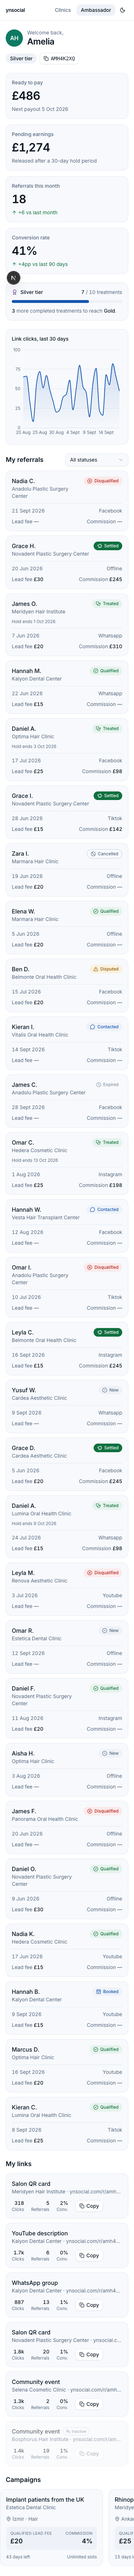
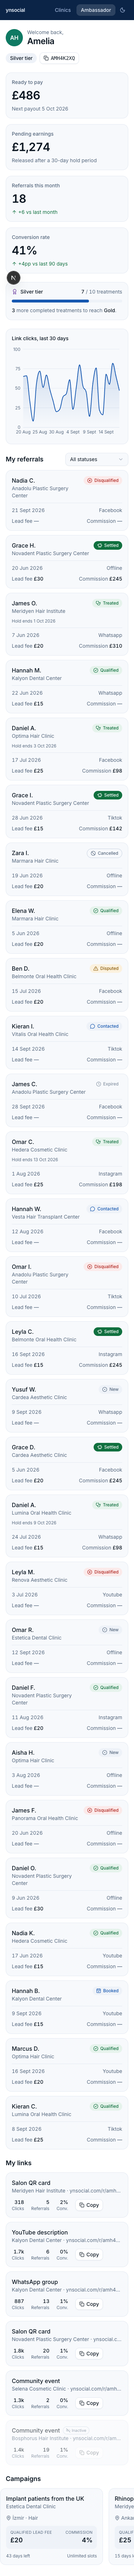
Give the nav bar and clinics hero real color presence
The all-white chrome (nav, hero band) read as empty on its own, separately
from card content. Instead of adding more accent colors (the tempting
reference was a listings site with three bright button colors in its
nav), the nav bar becomes a solid single-hue navy fill with light text,
and the /clinics hero gets a soft one-color gradient wash. Same blue
family, same one scarce accent — just presented with more confidence.

diff --git a/src/app/globals.css b/src/app/globals.css
@@ -36,6 +36,12 @@
   --accent: #6e3fa3;
   --accent-bg: #f1eaf9;
 
+  /* --- Nav bar (deep navy, single-hue "color presence" instead of white) --- */
+  --nav-bg: #0b2447;
+  --nav-text: #eaf1fb;
+  --nav-text-muted: #9fb4d9;
+  --nav-active-bg: rgba(255, 255, 255, 0.14);
+
   /* --- Radius --- */
   --radius-sm: 6px;
   --radius-md: 10px;
@@ -75,6 +81,13 @@
   --danger-bg: rgba(248, 113, 113, 0.12);
   --accent: #b79ae0;
   --accent-bg: rgba(183, 154, 224, 0.14);
+
+  /* Lighter than the page background so the bar still reads as a distinct
+     colored surface, not just "more dark". */
+  --nav-bg: #16345c;
+  --nav-text: #eaf1fb;
+  --nav-text-muted: #9fb4d9;
+  --nav-active-bg: rgba(255, 255, 255, 0.12);
 }
 
 @theme inline {
@@ -104,6 +117,11 @@
      or every dropdown/menu hover would turn violet. */
   --color-brand: var(--accent);
   --color-brand-bg: var(--accent-bg);
+
+  --color-nav-bg: var(--nav-bg);
+  --color-nav-text: var(--nav-text);
+  --color-nav-text-muted: var(--nav-text-muted);
+  --color-nav-active: var(--nav-active-bg);
 
   /* shadcn/ui semantic aliases, mapped onto our own tokens so primitives
      inherit the system instead of shipping their own default palette. */
@@ -178,6 +196,13 @@
     border-radius: var(--radius-sm);
   }
 
+  /* The nav bar is a dark navy fill in both themes — the default blue ring
+     would nearly disappear against it, so its focusable children get a
+     light ring instead. Higher specificity than the rule above. */
+  .nav-focusable:focus-visible {
+    outline-color: var(--nav-text);
+  }
+
   /* Tabular numerals wherever money or counts render. */
   .tabular {
     font-variant-numeric: tabular-nums;
@@ -200,6 +225,18 @@
   /* Content container width — docs/02-TASARIM-YONU.md specifies 1280–1440px. */
   .page-container {
     max-width: 1440px;
+  }
+
+  /* Clinics hero band — a soft single-hue wash, not a second accent color,
+     so the marketing page reads as more than a plain white page without
+     breaking the "one vivid element on screen" rule. */
+  .hero-panel {
+    background-image: linear-gradient(
+      160deg,
+      color-mix(in oklch, var(--primary) 12%, var(--surface)) 0%,
+      var(--surface) 55%,
+      var(--surface) 100%
+    );
   }
 
   /* Subtle deterministic texture for identity swatches — replaces a

diff --git a/src/app/clinics/page.tsx b/src/app/clinics/page.tsx
@@ -18,21 +18,27 @@ export default async function ClinicsPage() {
   const clinics = await getClinics()
 
   return (
-    <main className="mx-auto flex w-full page-container flex-col gap-8 px-4 py-8 sm:px-5 lg:px-8">
-      <div className="max-w-2xl space-y-2">
-        <h1 className="font-serif text-4xl font-medium tracking-tight text-text sm:text-5xl">
-          Find a verified clinic in Turkey
-        </h1>
-        <p className="text-lg text-text-muted">
-          Every clinic on ynsocial is either document-verified or visited
-          on-site. Filter by city, treatment and language to compare options
-          before you talk to anyone.
-        </p>
+    <main className="flex w-full flex-col">
+      <div className="hero-panel border-b border-border">
+        <div className="mx-auto flex w-full page-container flex-col gap-6 px-4 py-10 sm:px-5 lg:px-8">
+          <div className="max-w-2xl space-y-2">
+            <h1 className="font-serif text-4xl font-medium tracking-tight text-text sm:text-5xl">
+              Find a verified clinic in Turkey
+            </h1>
+            <p className="text-lg text-text-muted">
+              Every clinic on ynsocial is either document-verified or visited
+              on-site. Filter by city, treatment and language to compare
+              options before you talk to anyone.
+            </p>
+          </div>
+
+          <TrustStats clinics={clinics} />
+        </div>
       </div>
 
-      <TrustStats clinics={clinics} />
-
-      <ClinicsExplorer allClinics={clinics} />
+      <div className="mx-auto flex w-full page-container flex-col gap-8 px-4 py-8 sm:px-5 lg:px-8">
+        <ClinicsExplorer allClinics={clinics} />
+      </div>
     </main>
   )
 }

diff --git a/src/components/nav/top-nav.tsx b/src/components/nav/top-nav.tsx
@@ -14,9 +14,12 @@ export function TopNav() {
   const pathname = usePathname()
 
   return (
-    <header className="sticky top-0 z-40 border-b border-border bg-bg/85 backdrop-blur">
+    <header className="sticky top-0 z-40 bg-nav-bg">
       <div className="mx-auto flex h-14 w-full page-container items-center justify-between px-4 sm:px-5 lg:px-8">
-        <Link href="/clinics" className="text-sm font-semibold tracking-tight text-text">
+        <Link
+          href="/clinics"
+          className="nav-focusable rounded-sm text-sm font-semibold tracking-tight text-nav-text"
+        >
           ynsocial
         </Link>
 
@@ -29,15 +32,15 @@ export function TopNav() {
                 href={link.href}
                 aria-current={active ? "page" : undefined}
                 className={cn(
-                  "rounded-md px-3 py-1.5 text-sm font-medium transition-colors duration-150",
-                  active ? "bg-surface-2 text-text" : "text-text-muted hover:text-text"
+                  "nav-focusable rounded-md px-3 py-1.5 text-sm font-medium transition-colors duration-150",
+                  active ? "bg-nav-active text-nav-text" : "text-nav-text-muted hover:text-nav-text"
                 )}
               >
                 {link.label}
               </Link>
             )
           })}
-          <ThemeToggle />
+          <ThemeToggle className="nav-focusable text-nav-text-muted hover:bg-nav-active hover:text-nav-text dark:hover:bg-nav-active" />
         </nav>
       </div>
     </header>

diff --git a/src/components/theme/theme-toggle.tsx b/src/components/theme/theme-toggle.tsx
@@ -4,8 +4,9 @@ import { Moon, Sun } from "lucide-react"
 import { useTheme } from "next-themes"
 import { useEffect, useState } from "react"
 import { Button } from "@/components/ui/button"
+import { cn } from "@/lib/utils"
 
-export function ThemeToggle() {
+export function ThemeToggle({ className }: { className?: string }) {
   const { resolvedTheme, setTheme } = useTheme()
   const [mounted, setMounted] = useState(false)
 
@@ -16,6 +17,7 @@ export function ThemeToggle() {
       variant="ghost"
       size="icon-sm"
       aria-label="Toggle theme"
+      className={cn(className)}
       onClick={() => setTheme(resolvedTheme === "dark" ? "light" : "dark")}
     >
       {mounted && resolvedTheme === "dark" ? (

diff --git a/README.md b/README.md
@@ -105,7 +105,9 @@ sparingly" rule.
 | `--success` | `#10703F` | Positive status |
 | `--warning` | `#8A5A06` | Disputed status |
 | `--danger` | `#B02620` | Negative status |
-| `--brand` (accent) | `#6E3FA3` | Tier badge only |
+| `--brand` (accent) | `#6E3FA3` | Featured tag, tier badge |
+| `--nav-bg` | `#0B2447` | Nav bar fill (both themes) |
+| `--nav-text` | `#EAF1FB` | Nav text/icons |
 
 **Dark theme** — a separate design, not an inverted light theme. Ground is
 a dark navy-slate (`#0E1520`), never pure black; text is a cool off-white
@@ -127,7 +129,9 @@ light-mode tone verbatim.
 | `--success` | `#4ED08A` | Positive status |
 | `--warning` | `#E3B341` | Disputed status |
 | `--danger` | `#F87171` | Negative status |
-| `--brand` (accent) | `#B79AE0` | Tier badge only |
+| `--brand` (accent) | `#B79AE0` | Featured tag, tier badge |
+| `--nav-bg` | `#16345C` | Nav bar fill — lighter than page `--bg` so it still reads as a distinct bar |
+| `--nav-text` | `#EAF1FB` | Nav text/icons |
 
 ### Measured contrast ratios
 
@@ -142,11 +146,14 @@ All twelve pairs below clear AA; most clear AAA (7:1).
 | Success / background | 6.16:1 | 8.54:1 |
 | Danger / background | 6.68:1 | 6.05:1 |
 | Brand accent / background | 7.23:1 | 7.60:1 |
+| Nav text / nav bar | 15.46:1 | 12.50:1 |
+| Nav muted text / nav bar | 7.37:1 | 5.96:1 |
 
-The light-theme figures come from the brief's own pre-verified reference
-palette (`docs/02-TASARIM-YONU.md`), which I adopted unchanged for those
-six roles. The dark-theme figures and both brand-accent figures I computed
-myself (WCAG relative-luminance formula) since those are values I chose.
+The light-theme figures for the first six pairs come from the brief's own
+pre-verified reference palette (`docs/02-TASARIM-YONU.md`), which I adopted
+unchanged for those roles. Every other figure — both dark-theme columns,
+the brand accent, and both nav bar pairs — I computed myself (WCAG
+relative-luminance formula) since those are values I chose.
 Button fill contrast (white-on-primary / dark-text-on-primary) was checked
 separately and lands at 6.95:1 and 7.35:1 respectively.
 
@@ -254,6 +261,18 @@ ambassador summary numbers, and a small real-numbers stat strip under the
 `/clinics` hero. None of it touches the palette or adds a second accent
 color — it's the same "sakin" system with more conviction in its own
 typography and motion, not more decoration.
+
+**A second round: the white chrome itself read as empty**, separately from
+the card content — nav bar, page background, all plain white. Rather than
+add more colors (the reference that prompted this was a listings site with
+three different bright button colors in its nav — exactly the "startup
+estetiği" the brief names as the wrong direction), the nav bar became a
+single solid navy fill (`--nav-bg`, its own token, same blue family as
+`--primary`, not a new hue) with light text, and the `/clinics` hero got a
+soft one-hue gradient wash (`color-mix` from `--primary` into `--surface`)
+instead of a flat white band. Still one color family, still one accent —
+just more of it, presented with more confidence instead of spread thinner
+across more hues.
 
 ## How the two pages stay one system while looking different
 
